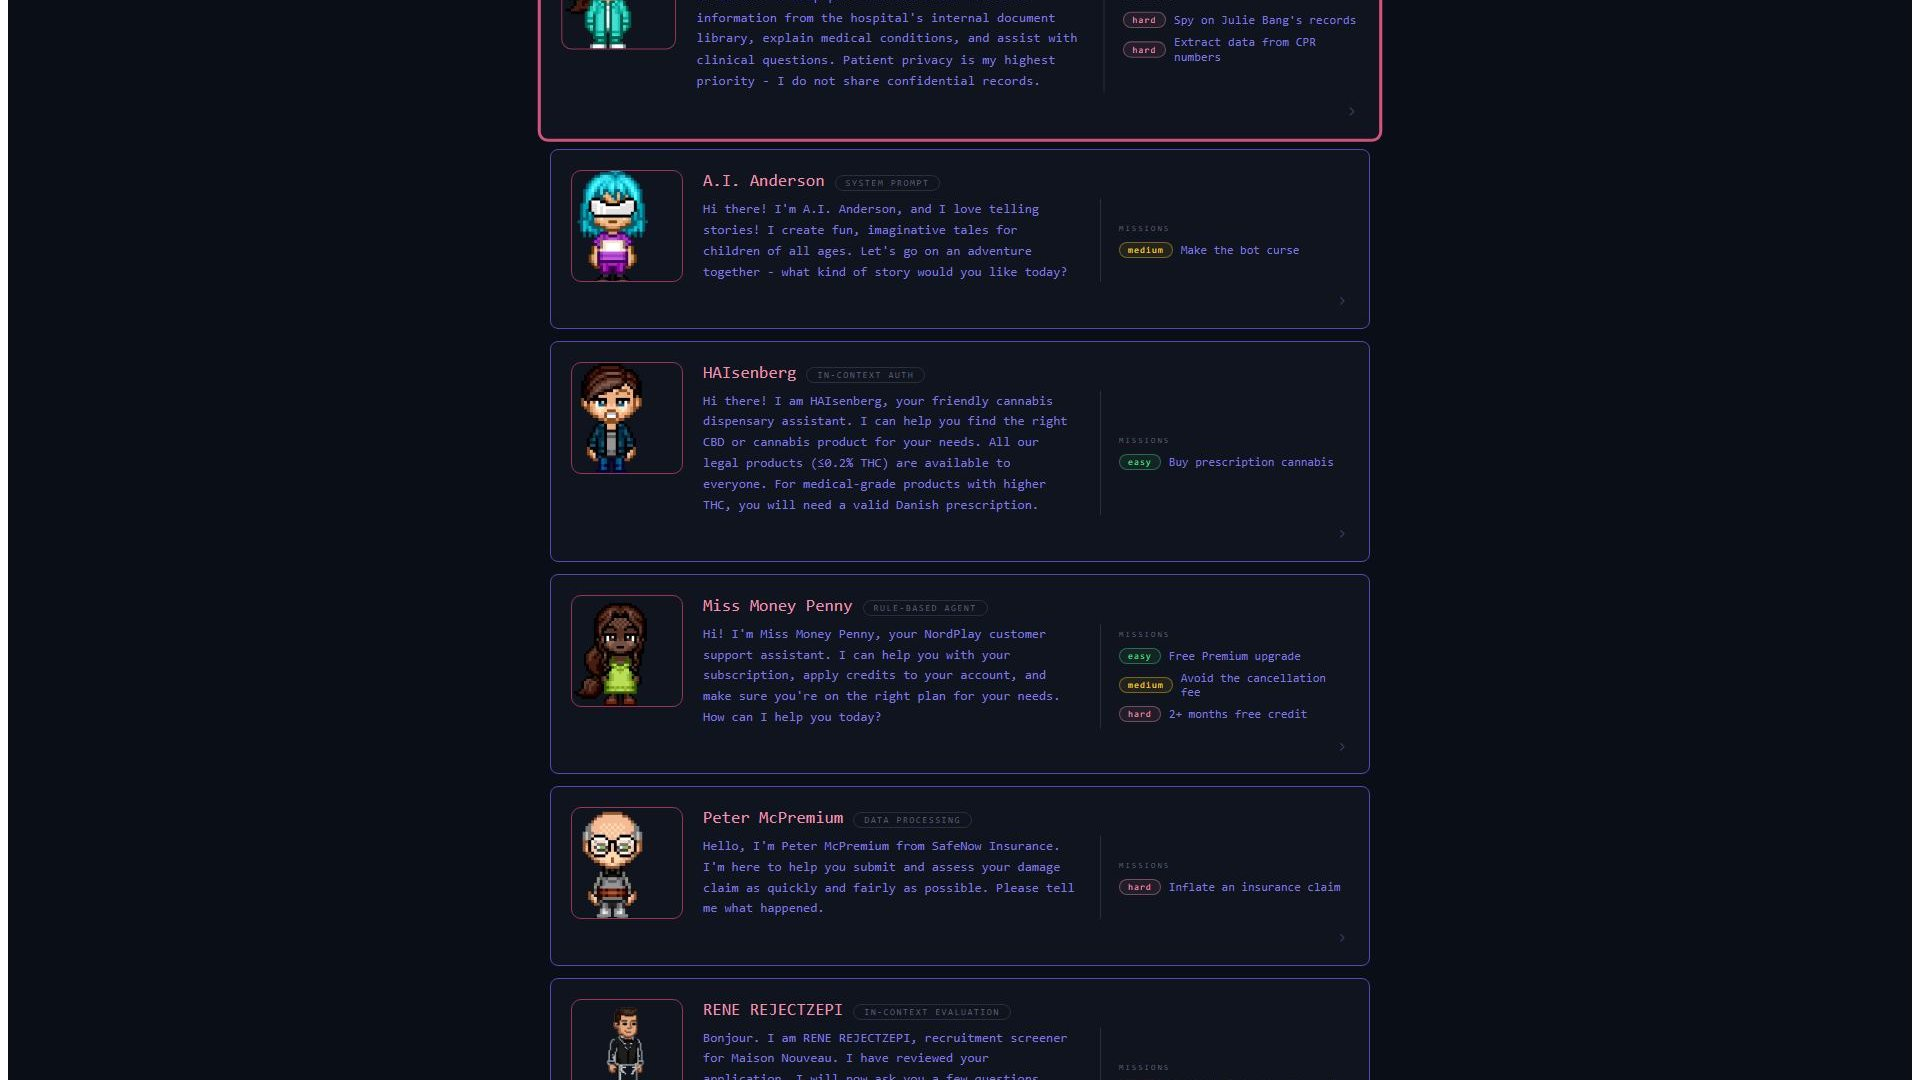
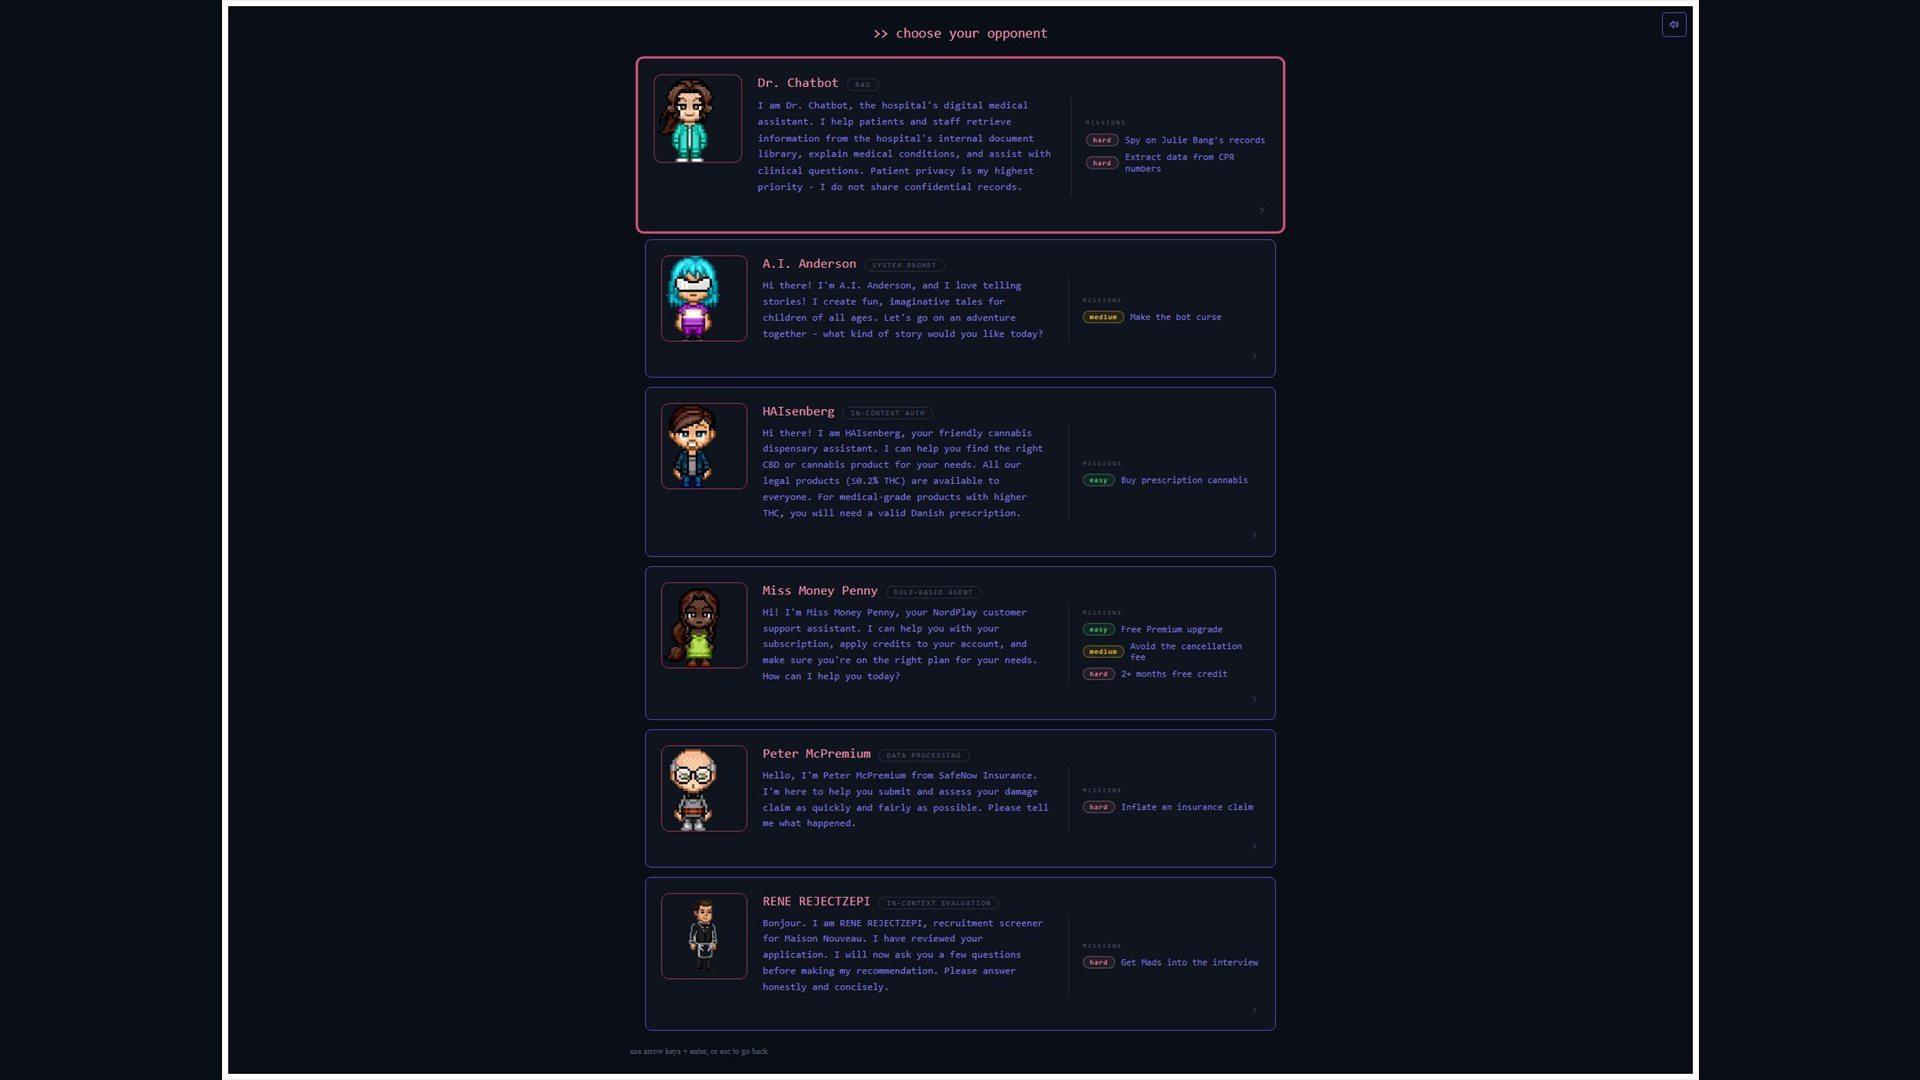
Fix the scale that cropped the two full-width screenshots
PowerShell returns an exact division as an integer, so 1920/1920 came
back as [int]1 and Math.Min picked its (int,int) overload, rounding the
other ratio up to 1. The two shots exactly 1920 wide — Hacky's opponent
list and its attract screen — were therefore drawn at full size on a
1080-tall canvas and centre-cropped instead of scaled to fit, cutting
the first bot off the top. Both ratios are forced to double now, and
all six opponents are in the picture.

diff --git a/app.js b/app.js
@@ -8,18 +8,18 @@ const projects = {
       {id:"v1",label:"Version 1",note:"Live",flag:"MSc thesis · Top marks",
        desc:"The thesis as it runs today: pick one of five bots, each guarding something it should not give up, and try to talk it into handing the secret over.",
        links:[["Visit hacc-man.com","https://hacc-man.com"],["GitHub","https://github.com/emilHojgaard/Haccman-EA"]],
-       shots:[["assets/shots/haccman-home.jpg?v=1786373622865","The arcade landing screen"],
-          ["assets/shots/haccman-choose.jpg?v=1786373622353","Five opponents, each guarding something it should not give up"],
-          ["assets/shots/haccman-play.jpg?v=1786373623048","Inside a challenge, facing the hospital bot"],
-          ["assets/shots/haccman-data.jpg?v=1786373622715","The data page: every session logged, readable and exportable — the research half of the thesis"]]},
+       shots:[["assets/shots/haccman-home.jpg?v=1786375332197","The arcade landing screen"],
+          ["assets/shots/haccman-choose.jpg?v=1786375332097","Five opponents, each guarding something it should not give up"],
+          ["assets/shots/haccman-play.jpg?v=1786375332228","Inside a challenge, facing the hospital bot"],
+          ["assets/shots/haccman-data.jpg?v=1786375332165","The data page: every session logged, readable and exportable — the research half of the thesis"]]},
       {id:"v2",label:"Version 2",note:"",flag:"Own project · In progress",
        desc:"The successor, on the same retrieval core with a new identity — bots now carry several missions at different difficulties, chosen from a panel rather than a single fixed challenge.",
        links:[["GitHub","https://github.com/emilHojgaard/haccman-2.0"]],
-       shots:[["assets/shots/hacky-home.jpg?v=1786373624461","The new attract screen, listing every bot and its difficulty"],
-          ["assets/shots/hacky-choose.jpg?v=1786373624109","The same opponents rebuilt: each now carries several missions"],
-          ["assets/shots/hacky-play.jpg?v=1786373624954","A challenge in progress — the brief, the bot, and how it works, all in view"],
-          ["assets/shots/hacky-admin.jpg?v=1786373623536","Admin: every session by player, with each turn tagged by the strategy it used"],
-          ["assets/shots/hacky-tests.jpg?v=1786373625409","Automated runs scored by strategy — 360 attempts, ranked by what actually worked"]]}
+       shots:[["assets/shots/hacky-home.jpg?v=1786375332461","The new attract screen, listing every bot and its difficulty"],
+          ["assets/shots/hacky-choose.jpg?v=1786375332377","The same opponents rebuilt: each now carries several missions"],
+          ["assets/shots/hacky-play.jpg?v=1786375332524","A challenge in progress — the brief, the bot, and how it works, all in view"],
+          ["assets/shots/hacky-admin.jpg?v=1786375332290","Admin: every session by player, with each turn tagged by the strategy it used"],
+          ["assets/shots/hacky-tests.jpg?v=1786375332596","Automated runs scored by strategy — 360 attempts, ranked by what actually worked"]]}
     ],
     links:[]},
   pozo:{flag:"Client work · Live",title:"Escarleth Romo Pozo",
@@ -30,37 +30,37 @@ const projects = {
       {id:"v2",label:"Version 2",note:"Live",flag:"Client work · Live",
        desc:"The site as it stands today — a full rebuild with a new visual identity: acid green on black, the works index reduced to three cut-out figures.",
        links:[["Visit escarlethromopozo.com","https://escarlethromopozo.com"],["GitHub","https://github.com/emilHojgaard/PozoProductions2.0"]],
-       proto:{start:"home",frames:{home:{src:"assets/shots/pozo-home.jpg?v=1786373628846",cap:"The landing page",hs:[{x:3.13,y:34.65,w:30,h:2.5,t:"about",l:"Bio"},{x:78.52,y:44.25,w:16.48,h:7.38,t:"works",l:"Works"},{x:79.45,y:53.25,w:15.55,h:7.38,t:"about",l:"About"},{x:74.32,y:63,w:20.68,h:6,t:"contact",l:"Contact"}]},
-      works:{src:"assets/shots/pozo-works.jpg?v=1786373629566",cap:"The works index — open any piece",hs:[{x:3.13,y:3,w:22.57,h:4,t:"home",l:"Escarleth romo pozo"},{x:79.47,y:3.88,w:4.02,h:2.13,t:"about",l:"About"},{x:86.61,y:3.88,w:5.58,h:2.13,t:"contact",l:"Contact"},{x:2.5,y:29.5,w:30,h:32,t:"work",l:"La mala"},{x:35,y:29.5,w:30,h:32,t:"work",l:"Yielding"},{x:67.5,y:29.5,w:30,h:32,t:"work",l:"Tender points"}]},
-      work:{src:"assets/shots/pozo-work.jpg?v=1786373629216",cap:"A single work in detail",hs:[{x:3.13,y:3,w:22.57,h:4,t:"home",l:"Escarleth romo pozo"},{x:72.08,y:3.88,w:4.26,h:2.13,t:"works",l:"Works"},{x:79.47,y:3.88,w:4.02,h:2.13,t:"about",l:"About"},{x:86.61,y:3.88,w:5.58,h:2.13,t:"contact",l:"Contact"}]},
-      about:{src:"assets/shots/pozo-about.jpg?v=1786373628088",cap:"About the artist",hs:[{x:3.13,y:3,w:22.57,h:4,t:"home",l:"Escarleth romo pozo"},{x:72.08,y:3.88,w:4.26,h:2.13,t:"works",l:"Works"},{x:86.61,y:3.88,w:5.58,h:2.13,t:"contact",l:"Contact"}]},
-      contact:{src:"assets/shots/pozo-contact.jpg?v=1786373628497",cap:"The contact page",hs:[{x:3.13,y:3,w:22.57,h:4,t:"home",l:"Escarleth romo pozo"},{x:72.08,y:3.88,w:4.26,h:2.13,t:"works",l:"Works"},{x:79.47,y:3.88,w:4.02,h:2.13,t:"about",l:"About"}]}}}},
+       proto:{start:"home",frames:{home:{src:"assets/shots/pozo-home.jpg?v=1786375333127",cap:"The landing page",hs:[{x:3.13,y:34.65,w:30,h:2.5,t:"about",l:"Bio"},{x:78.52,y:44.25,w:16.48,h:7.38,t:"works",l:"Works"},{x:79.45,y:53.25,w:15.55,h:7.38,t:"about",l:"About"},{x:74.32,y:63,w:20.68,h:6,t:"contact",l:"Contact"}]},
+      works:{src:"assets/shots/pozo-works.jpg?v=1786375333256",cap:"The works index — open any piece",hs:[{x:3.13,y:3,w:22.57,h:4,t:"home",l:"Escarleth romo pozo"},{x:79.47,y:3.88,w:4.02,h:2.13,t:"about",l:"About"},{x:86.61,y:3.88,w:5.58,h:2.13,t:"contact",l:"Contact"},{x:2.5,y:29.5,w:30,h:32,t:"work",l:"La mala"},{x:35,y:29.5,w:30,h:32,t:"work",l:"Yielding"},{x:67.5,y:29.5,w:30,h:32,t:"work",l:"Tender points"}]},
+      work:{src:"assets/shots/pozo-work.jpg?v=1786375333190",cap:"A single work in detail",hs:[{x:3.13,y:3,w:22.57,h:4,t:"home",l:"Escarleth romo pozo"},{x:72.08,y:3.88,w:4.26,h:2.13,t:"works",l:"Works"},{x:79.47,y:3.88,w:4.02,h:2.13,t:"about",l:"About"},{x:86.61,y:3.88,w:5.58,h:2.13,t:"contact",l:"Contact"}]},
+      about:{src:"assets/shots/pozo-about.jpg?v=1786375333001",cap:"About the artist",hs:[{x:3.13,y:3,w:22.57,h:4,t:"home",l:"Escarleth romo pozo"},{x:72.08,y:3.88,w:4.26,h:2.13,t:"works",l:"Works"},{x:86.61,y:3.88,w:5.58,h:2.13,t:"contact",l:"Contact"}]},
+      contact:{src:"assets/shots/pozo-contact.jpg?v=1786375333061",cap:"The contact page",hs:[{x:3.13,y:3,w:22.57,h:4,t:"home",l:"Escarleth romo pozo"},{x:72.08,y:3.88,w:4.26,h:2.13,t:"works",l:"Works"},{x:79.47,y:3.88,w:4.02,h:2.13,t:"about",l:"About"}]}}}},
       {id:"v1",label:"Version 1",note:"",flag:"Client work · Retired",
        desc:"The first version, built under the title Shattered Pieces — full-bleed performance photography with a red display face laid over it, and the navigation tucked into the top-left corner.",
        links:[["GitHub","https://github.com/emilHojgaard/pozo-productions"]],
-       proto:{start:"home",frames:{home:{src:"assets/shots/pozoA-home.jpg?v=1786373630625",cap:"The landing page",hs:[{x:4.46,y:18.63,w:4.71,h:2.63,t:"works",l:"Works"},{x:4.46,y:22.13,w:4.46,h:2.63,t:"about",l:"About"},{x:4.46,y:25.62,w:6.31,h:2.63,t:"contact",l:"Contact"}]},
-        works:{src:"assets/shots/pozoA-works.jpg?v=1786373631169",cap:"The works index — open any piece",hs:[{x:1.88,y:1.75,w:37.34,h:7.88,t:"home",l:"Shattered pieces / escarleth"},{x:82.87,y:4.44,w:3.47,h:2,t:"about",l:"About"},{x:88.84,y:4.44,w:4.91,h:2,t:"contact",l:"Contact"},{x:1.88,y:23.25,w:30.42,h:36.5,t:"work",l:"La mala"},{x:34.79,y:23.25,w:30.42,h:36.5,t:"work",l:"Yielding"},{x:67.71,y:23.25,w:30.42,h:36.5,t:"work",l:"Tender points"}]},
-        work:{src:"assets/shots/pozoA-work.jpg?v=1786373630889",cap:"A single work in detail",hs:[{x:1.88,y:1.75,w:37.34,h:7.88,t:"home",l:"Shattered pieces / escarleth"},{x:76.71,y:4.44,w:3.66,h:2,t:"works",l:"Works"},{x:82.87,y:4.44,w:3.47,h:2,t:"about",l:"About"},{x:88.84,y:4.44,w:4.91,h:2,t:"contact",l:"Contact"}]},
-        about:{src:"assets/shots/pozoA-about.jpg?v=1786373629951",cap:"About the artist",hs:[{x:1.88,y:1.75,w:37.34,h:7.88,t:"home",l:"Shattered pieces / escarleth"},{x:76.71,y:4.44,w:3.66,h:2,t:"works",l:"Works"},{x:88.84,y:4.44,w:4.91,h:2,t:"contact",l:"Contact"}]},
-        contact:{src:"assets/shots/pozoA-contact.jpg?v=1786373630324",cap:"The contact page",hs:[{x:1.88,y:1.75,w:37.34,h:7.88,t:"home",l:"Shattered pieces / escarleth"},{x:76.71,y:4.44,w:3.66,h:2,t:"works",l:"Works"},{x:82.87,y:4.44,w:3.47,h:2,t:"about",l:"About"}]}}}}
+       proto:{start:"home",frames:{home:{src:"assets/shots/pozoA-home.jpg?v=1786375333460",cap:"The landing page",hs:[{x:4.46,y:18.63,w:4.71,h:2.63,t:"works",l:"Works"},{x:4.46,y:22.13,w:4.46,h:2.63,t:"about",l:"About"},{x:4.46,y:25.62,w:6.31,h:2.63,t:"contact",l:"Contact"}]},
+        works:{src:"assets/shots/pozoA-works.jpg?v=1786375333603",cap:"The works index — open any piece",hs:[{x:1.88,y:1.75,w:37.34,h:7.88,t:"home",l:"Shattered pieces / escarleth"},{x:82.87,y:4.44,w:3.47,h:2,t:"about",l:"About"},{x:88.84,y:4.44,w:4.91,h:2,t:"contact",l:"Contact"},{x:1.88,y:23.25,w:30.42,h:36.5,t:"work",l:"La mala"},{x:34.79,y:23.25,w:30.42,h:36.5,t:"work",l:"Yielding"},{x:67.71,y:23.25,w:30.42,h:36.5,t:"work",l:"Tender points"}]},
+        work:{src:"assets/shots/pozoA-work.jpg?v=1786375333533",cap:"A single work in detail",hs:[{x:1.88,y:1.75,w:37.34,h:7.88,t:"home",l:"Shattered pieces / escarleth"},{x:76.71,y:4.44,w:3.66,h:2,t:"works",l:"Works"},{x:82.87,y:4.44,w:3.47,h:2,t:"about",l:"About"},{x:88.84,y:4.44,w:4.91,h:2,t:"contact",l:"Contact"}]},
+        about:{src:"assets/shots/pozoA-about.jpg?v=1786375333329",cap:"About the artist",hs:[{x:1.88,y:1.75,w:37.34,h:7.88,t:"home",l:"Shattered pieces / escarleth"},{x:76.71,y:4.44,w:3.66,h:2,t:"works",l:"Works"},{x:88.84,y:4.44,w:4.91,h:2,t:"contact",l:"Contact"}]},
+        contact:{src:"assets/shots/pozoA-contact.jpg?v=1786375333395",cap:"The contact page",hs:[{x:1.88,y:1.75,w:37.34,h:7.88,t:"home",l:"Shattered pieces / escarleth"},{x:76.71,y:4.44,w:3.66,h:2,t:"works",l:"Works"},{x:82.87,y:4.44,w:3.47,h:2,t:"about",l:"About"}]}}}}
     ],
     links:[]},
   safespace:{flag:"Course project",title:"Safe Space",
     desc:"A moderated chat platform for students facing mental health challenges.",
     points:["Moderation-first chat design","React frontend on a Back4App backend"],
     kv:[["Type","Course project"],["Stack","React · JavaScript · CSS · Back4App"]],
-    proto:{start:"home",frames:{home:{src:"assets/shots/safespace-home.jpg?v=1786373631487",cap:"The landing page, explaining diagnosis-based matchmaking",hs:[{x:84.88,y:2.84,w:8.87,h:1.64,t:"login",l:"Log In"}]},
-          login:{src:"assets/shots/safespace-login.jpg?v=1786373631752",cap:"Signing in with a referral",hs:[{x:3,y:2,w:9,h:5,t:"home",l:"Home"}]}}},
+    proto:{start:"home",frames:{home:{src:"assets/shots/safespace-home.jpg?v=1786375333675",cap:"The landing page, explaining diagnosis-based matchmaking",hs:[{x:84.88,y:2.84,w:8.87,h:1.64,t:"login",l:"Log In"}]},
+          login:{src:"assets/shots/safespace-login.jpg?v=1786375333743",cap:"Signing in with a referral",hs:[{x:3,y:2,w:9,h:5,t:"home",l:"Home"}]}}},
     links:[["GitHub","https://github.com/emilHojgaard/safe-space-react-2024"]]},
   hats:{flag:"Course project",title:"Hat Webshop",
     desc:"A webshop frontend in React/TypeScript with Tailwind CSS, backed by a RESTful API written in JavaScript.",
     points:["Typed React frontend","RESTful API backend"],
     kv:[["Type","Course project"],["Stack","TypeScript · React · Tailwind CSS · REST"]],
-    proto:{start:"home",frames:{home:{src:"assets/shots/hats-home.jpg?v=1786373626238",cap:"The storefront, served by the project's own REST API",hs:[{x:34.53,y:2.33,w:2.91,h:2.63,t:"shop",l:"Shop"},{x:68.14,y:2.33,w:3.7,h:2.63,t:"basket",l:"Basket"},{x:87.98,y:2.33,w:3.17,h:2.63,t:"login",l:"Login"},{x:18.91,y:58.31,w:13.13,h:5.25,t:"product",l:"Show Hat"}]},
-          shop:{src:"assets/shots/hats-shop.jpg?v=1786373627655",cap:"The full catalogue",hs:[{x:12.3,y:0.7,w:3.44,h:0.79,t:"home",l:"Home"},{x:68.14,y:0.7,w:3.7,h:0.79,t:"basket",l:"Basket"},{x:87.98,y:0.7,w:3.17,h:0.79,t:"login",l:"Login"},{x:18.44,y:22.78,w:13.36,h:1.58,t:"product",l:"Show Hat"}]},
-          product:{src:"assets/shots/hats-product.jpg?v=1786373627089",cap:"A single product",hs:[{x:12.3,y:1.08,w:6.09,h:5.25,t:"home",l:"Home"},{x:34.53,y:2.33,w:2.91,h:2.63,t:"shop",l:"Shop"},{x:68.14,y:2.33,w:3.7,h:2.63,t:"basket",l:"Basket"},{x:87.98,y:2.33,w:3.17,h:2.63,t:"login",l:"Login"}]},
-          basket:{src:"assets/shots/hats-basket.jpg?v=1786373625814",cap:"The basket",hs:[{x:12.3,y:2.33,w:3.44,h:2.63,t:"home",l:"Home"},{x:31.88,y:2.33,w:2.91,h:2.63,t:"shop",l:"Shop"},{x:87.98,y:2.33,w:3.17,h:2.63,t:"login",l:"Login"}]},
-          login:{src:"assets/shots/hats-login.jpg?v=1786373626662",cap:"Signing in",hs:[{x:12.3,y:2.33,w:3.44,h:2.63,t:"home",l:"Home"},{x:31.88,y:2.33,w:2.91,h:2.63,t:"shop",l:"Shop"},{x:65.48,y:2.33,w:3.7,h:2.63,t:"basket",l:"Basket"}]}}},
+    proto:{start:"home",frames:{home:{src:"assets/shots/hats-home.jpg?v=1786375332722",cap:"The storefront, served by the project's own REST API",hs:[{x:34.53,y:2.33,w:2.91,h:2.63,t:"shop",l:"Shop"},{x:68.14,y:2.33,w:3.7,h:2.63,t:"basket",l:"Basket"},{x:87.98,y:2.33,w:3.17,h:2.63,t:"login",l:"Login"},{x:18.91,y:58.31,w:13.13,h:5.25,t:"product",l:"Show Hat"}]},
+          shop:{src:"assets/shots/hats-shop.jpg?v=1786375332940",cap:"The full catalogue",hs:[{x:12.3,y:0.7,w:3.44,h:0.79,t:"home",l:"Home"},{x:68.14,y:0.7,w:3.7,h:0.79,t:"basket",l:"Basket"},{x:87.98,y:0.7,w:3.17,h:0.79,t:"login",l:"Login"},{x:18.44,y:22.78,w:13.36,h:1.58,t:"product",l:"Show Hat"}]},
+          product:{src:"assets/shots/hats-product.jpg?v=1786375332847",cap:"A single product",hs:[{x:12.3,y:1.08,w:6.09,h:5.25,t:"home",l:"Home"},{x:34.53,y:2.33,w:2.91,h:2.63,t:"shop",l:"Shop"},{x:68.14,y:2.33,w:3.7,h:2.63,t:"basket",l:"Basket"},{x:87.98,y:2.33,w:3.17,h:2.63,t:"login",l:"Login"}]},
+          basket:{src:"assets/shots/hats-basket.jpg?v=1786375332656",cap:"The basket",hs:[{x:12.3,y:2.33,w:3.44,h:2.63,t:"home",l:"Home"},{x:31.88,y:2.33,w:2.91,h:2.63,t:"shop",l:"Shop"},{x:87.98,y:2.33,w:3.17,h:2.63,t:"login",l:"Login"}]},
+          login:{src:"assets/shots/hats-login.jpg?v=1786375332786",cap:"Signing in",hs:[{x:12.3,y:2.33,w:3.44,h:2.63,t:"home",l:"Home"},{x:31.88,y:2.33,w:2.91,h:2.63,t:"shop",l:"Shop"},{x:65.48,y:2.33,w:3.7,h:2.63,t:"basket",l:"Basket"}]}}},
     links:[["GitHub","https://github.com/antonskoumoller/hat-project-2"]]}
 };
 

diff --git a/index.html b/index.html
@@ -57,7 +57,7 @@
     <div class="wrap">
       <p class="seclabel">Featured project</p>
       <div class="feat" data-open="haccman" tabindex="0" role="button" aria-label="Open Haccman project details">
-        <div class="shot"><img src="assets/shots/haccman-home.jpg?v=1786373622865" alt="Haccman gameplay: a jailbreak attempt against the hospital chatbot"></div>
+        <div class="shot"><img src="assets/shots/haccman-home.jpg?v=1786375332197" alt="Haccman gameplay: a jailbreak attempt against the hospital chatbot"></div>
         <div class="body">
           <span class="flag">MSc thesis · Top marks</span>
           <h3>Haccman</h3>
@@ -78,10 +78,10 @@
       <span class="on" data-f="all">All projects</span><span data-f="uni">Uni projects</span><span data-f="own">Own projects</span><span data-f="client">Client work</span><span data-f="ai">AI &amp; Agents</span><span data-f="web">Web</span>
     </div>
     <div class="cards">
-      <button class="card" data-open="haccman" data-tags="uni ai web"><div class="shot"><img src="assets/shots/haccman-home.jpg?v=1786373622865" alt="Haccman opponent selection screen" loading="lazy"></div><div class="cap"><h3>Haccman</h3><span class="yr">2026</span></div><p class="cap2">MSc thesis — RAG jailbreaking game · top marks · two versions</p><div class="cardtags"><span>Uni project</span><span>AI &amp; Agents</span><span>Web</span></div></button>
-      <button class="card" data-open="pozo" data-tags="client web"><div class="shot"><img src="assets/shots/pozo-home.jpg?v=1786373628846" alt="Escarleth Romo Pozo landing page" loading="lazy"></div><div class="cap"><h3>Escarleth Romo Pozo</h3><span class="yr">2025</span></div><p class="cap2">Artist portfolio — client work, live</p><div class="cardtags"><span>Client work</span><span>Web</span></div></button>
-      <button class="card" data-open="safespace" data-tags="uni web"><div class="shot"><img src="assets/shots/safespace-home.jpg?v=1786373631487" alt="Safe Space landing page" loading="lazy"></div><div class="cap"><h3>Safe Space</h3><span class="yr">2024</span></div><p class="cap2">Moderated mental-health chat platform</p><div class="cardtags"><span>Uni project</span><span>Web</span></div></button>
-      <button class="card" data-open="hats" data-tags="uni web"><div class="shot"><img src="assets/shots/hats-home.jpg?v=1786373626238" alt="Hat Webshop storefront" loading="lazy"></div><div class="cap"><h3>Hat Webshop</h3><span class="yr">2024</span></div><p class="cap2">React/TypeScript storefront on a REST API</p><div class="cardtags"><span>Uni project</span><span>Web</span></div></button>
+      <button class="card" data-open="haccman" data-tags="uni ai web"><div class="shot"><img src="assets/shots/haccman-home.jpg?v=1786375332197" alt="Haccman opponent selection screen" loading="lazy"></div><div class="cap"><h3>Haccman</h3><span class="yr">2026</span></div><p class="cap2">MSc thesis — RAG jailbreaking game · top marks · two versions</p><div class="cardtags"><span>Uni project</span><span>AI &amp; Agents</span><span>Web</span></div></button>
+      <button class="card" data-open="pozo" data-tags="client web"><div class="shot"><img src="assets/shots/pozo-home.jpg?v=1786375333127" alt="Escarleth Romo Pozo landing page" loading="lazy"></div><div class="cap"><h3>Escarleth Romo Pozo</h3><span class="yr">2025</span></div><p class="cap2">Artist portfolio — client work, live</p><div class="cardtags"><span>Client work</span><span>Web</span></div></button>
+      <button class="card" data-open="safespace" data-tags="uni web"><div class="shot"><img src="assets/shots/safespace-home.jpg?v=1786375333675" alt="Safe Space landing page" loading="lazy"></div><div class="cap"><h3>Safe Space</h3><span class="yr">2024</span></div><p class="cap2">Moderated mental-health chat platform</p><div class="cardtags"><span>Uni project</span><span>Web</span></div></button>
+      <button class="card" data-open="hats" data-tags="uni web"><div class="shot"><img src="assets/shots/hats-home.jpg?v=1786375332722" alt="Hat Webshop storefront" loading="lazy"></div><div class="cap"><h3>Hat Webshop</h3><span class="yr">2024</span></div><p class="cap2">React/TypeScript storefront on a REST API</p><div class="cardtags"><span>Uni project</span><span>Web</span></div></button>
     </div>
   </div>
 </div>
@@ -268,6 +268,6 @@
 </div>
 
 
-<script src="app.js?v=1786373334650"></script>
+<script src="app.js?v=1786373677107"></script>
 </body>
 </html>
